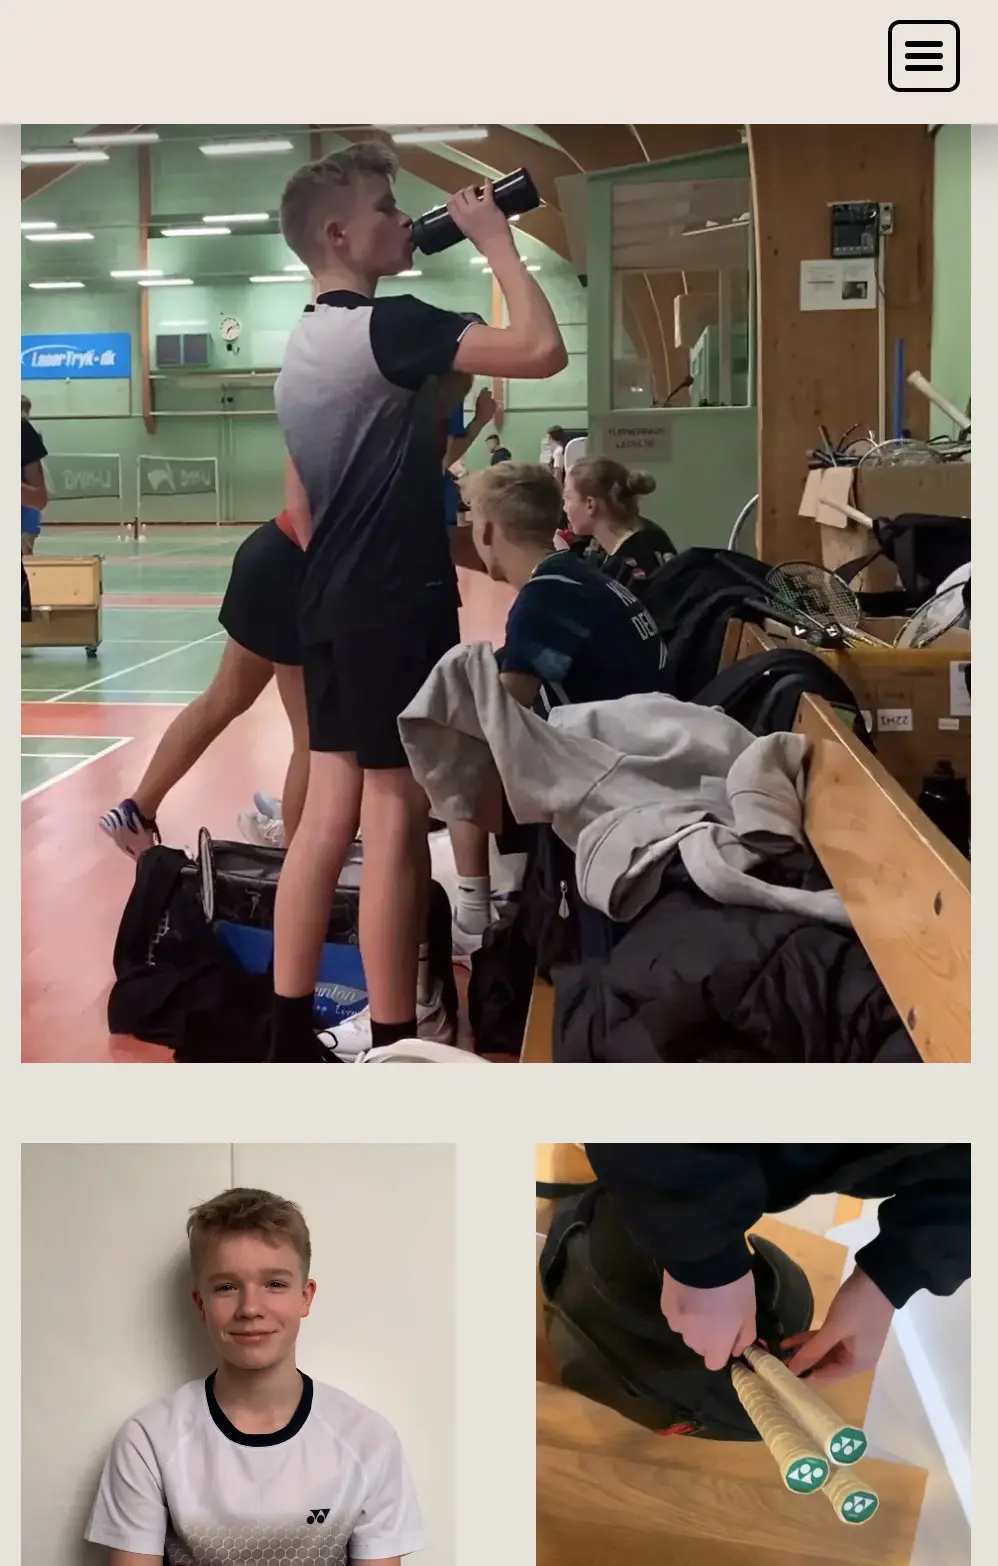
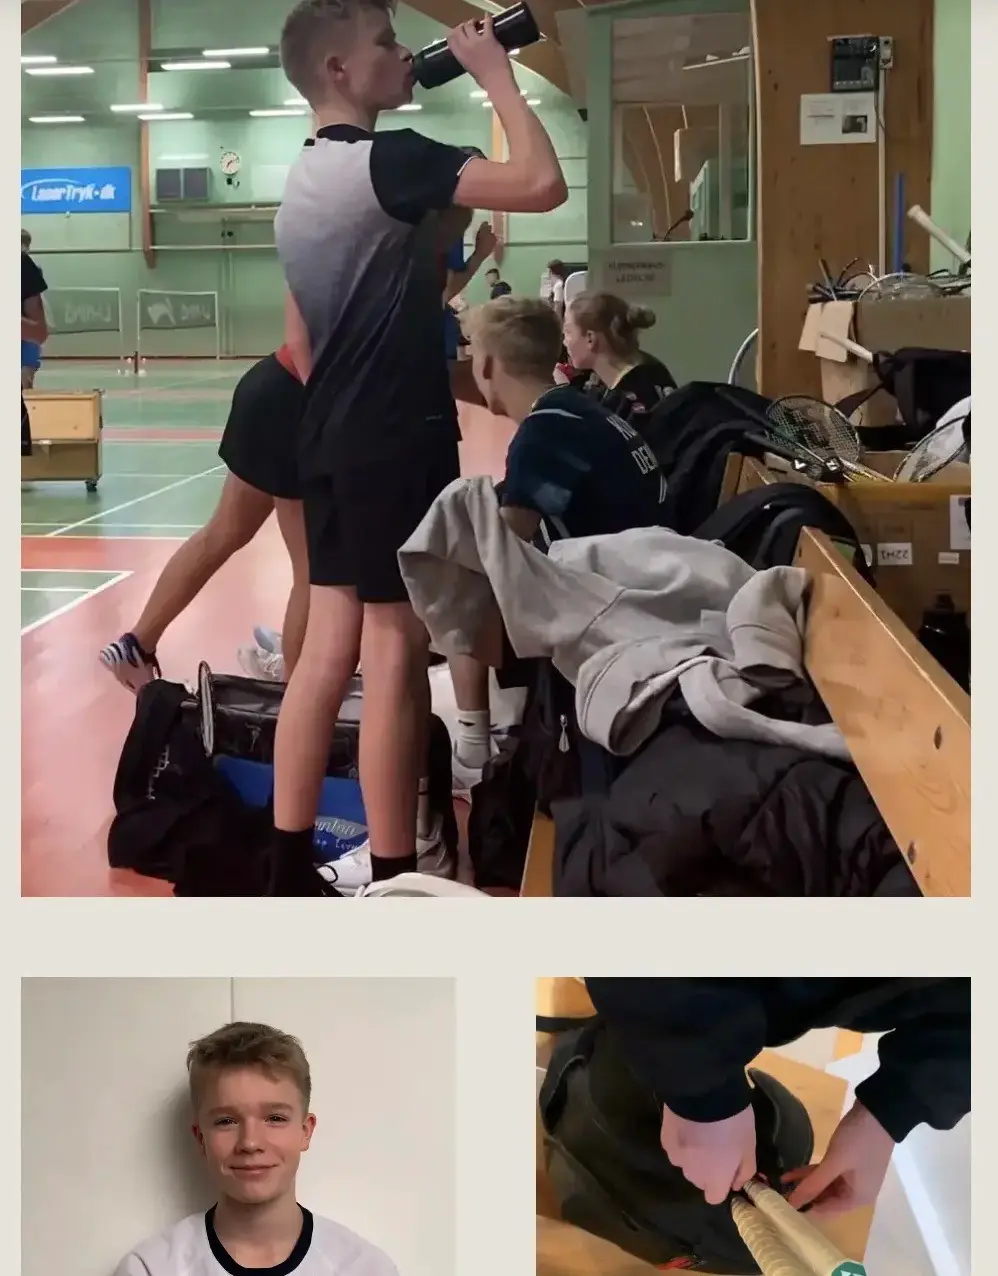
rettet noget og tilføjet nye billeder

diff --git a/style.css b/style.css
@@ -194,8 +194,16 @@ p {
 }
 
 /* h3 på website opgaven*/
-.overskrift4 {
+/* .overskrift4 {
   font-size: 20px;
+  color: rgba(133, 121, 108, 0.588);
+  text-align: center;
+  font-family: "Lora";
+} */
+
+/* h2 på emnesite opgaven */
+.overskrift5 {
+  font-size: 32px;
   color: rgba(133, 121, 108, 0.588);
   text-align: center;
   font-family: "Lora";
@@ -207,14 +215,7 @@ p {
   text-align: center;
   font-family: "Merriweather";
   color: rgba(15, 15, 14, 0.588);
-}
-
-/* h2 på emnesite opgaven */
-.overskrift5 {
-  font-size: 32px;
-  color: rgba(133, 121, 108, 0.588);
-  text-align: center;
-  font-family: "Lora";
+  padding: 18px;
 }
 
 /* tekst på emnesite opgaven */
@@ -223,19 +224,21 @@ p {
   font-family: "Merriweather";
   text-align: center;
   color: rgba(15, 15, 14, 0.588);
-  padding: 15px;
+  padding: 30px;
 }
 
 /* link til website opgaven */
 .link1 {
   display: flex;
   justify-content: center;
+  padding: 2px;
 }
 
 /* link til emnesite opgaven */
 .link2 {
   display: flex;
   justify-content: center;
+  padding: 4px;
 }
 
 /* har sat det ind i en media queries, så det også virker på mobil størrelse- det vil sige så sitet er responsivt */
@@ -464,8 +467,8 @@ p {
   display: grid;
   grid-template-columns: 1fr 1fr 1fr;
   grid-template-rows: 1fr 1fr;
-  padding: 60px;
-  gap: 28px;
+  padding: 65px;
+  gap: 30px;
 }
 
 /* h2 på pilotsite opgave */
@@ -477,8 +480,26 @@ p {
   padding-top: 65px;
 }
 
+/* h2 på redesignhjemmeside opgave */
+.overskrift10 {
+  font-size: 32px;
+  color: rgba(133, 121, 108, 0.588);
+  text-align: center;
+  font-family: "Lora";
+  padding-top: 15px;
+}
+
 /* tekst pilotsite opgave */
 .tekst7 {
+  font-size: 15px;
+  text-align: center;
+  font-family: "Merriweather";
+  color: rgba(15, 15, 14, 0.588);
+  padding: 35px;
+}
+
+/* tekst redesignhjemmeside opgave */
+.tekst8 {
   font-size: 15px;
   text-align: center;
   font-family: "Merriweather";
@@ -490,24 +511,6 @@ p {
 .link7 {
   display: flex;
   justify-content: center;
-}
-
-/* h2 på redesignhjemmeside opgave */
-.overskrift10 {
-  font-size: 32px;
-  color: rgba(133, 121, 108, 0.588);
-  text-align: center;
-  font-family: "Lora";
-  padding-top: 55px;
-}
-
-/* tekst redesignhjemmeside opgave */
-.tekst8 {
-  font-size: 15px;
-  text-align: center;
-  font-family: "Merriweather";
-  color: rgba(15, 15, 14, 0.588);
-  padding: 35px;
 }
 
 /* link til procedokument (hører til opgaven redesignhjemmeside) */

diff --git a/tema2.html b/tema2.html
@@ -29,8 +29,11 @@
       <div class="grid_2-2">
         <div class="website">
           <h2 class="overskrift3">02.01.02 Website</h2>
-          <h3 class="overskrift4">Studiestartsprøven</h3>
-          <p class="tekst2">bla bla bla</p>
+          <!-- <h3 class="overskrift4">Studiestartsprøven</h3> -->
+          <p class="tekst2">
+            Den første store opgave i dette tema var denne opgave. Det var også studiestartsprøven. Til at lave opgaven fik jeg udleveret noget materiale i form af billeder og tekst. Udover det så skulle websitet består af nogle bestemte HTML sider.
+            Jeg skulle selv finde fonte og farver. Opgaven bestod også i at websitet skulle være responsivt webdesign- det vil sige at det både virker på mobilsite og desktop.
+          </p>
           <div class="link1">
             <form action="https://www.mmdkea.dk/kea/02_web/01_website/website/index.html">
               <button class="button" type="submit">Link til opgaveløsningen</button>
@@ -39,7 +42,10 @@
         </div>
         <div class="emnesite">
           <h2 class="overskrift5">02.02.01 Emnesite</h2>
-          <p class="tekst3">I Tema 2 skulle jeg designe og lave mit eget site ud fra et valgfrit emne. Jeg blev introduceret til de forskellige design principper og jeg skulle udvikle et design ud fra den stil som jeg valgte.</p>
+          <p class="tekst3">
+            I Tema 2 bestod den anden hovedaflevering af det her opgave. I denne opgave skulle jeg designe og lave mit eget site ud fra et valgfrit emne. Jeg blev introduceret til de forskellige design principper og jeg skulle udvikle et design ud
+            fra den stil som jeg valgte.
+          </p>
           <!-- <div class="link2">
               <a href="https://mmdkea.dk/kea/02_web/02_emnesite/emnesite/index.html">Link til opgaveløsning</a>
             </div> -->

diff --git a/tema5.html b/tema5.html
@@ -62,7 +62,7 @@
           </div>
         </div>
         <!-- <h2 class="overskrift10">02.01.02 Website</h2> -->
-        <img class="img16" src="billeder/videoscreenshot.webp" alt="videoscreenshot" />
+        <img class="img16" src="billeder/cafe.webp" alt="videoscreenshot" />
       </div>
     </main>
     <script src="menu(1).js"></script>
